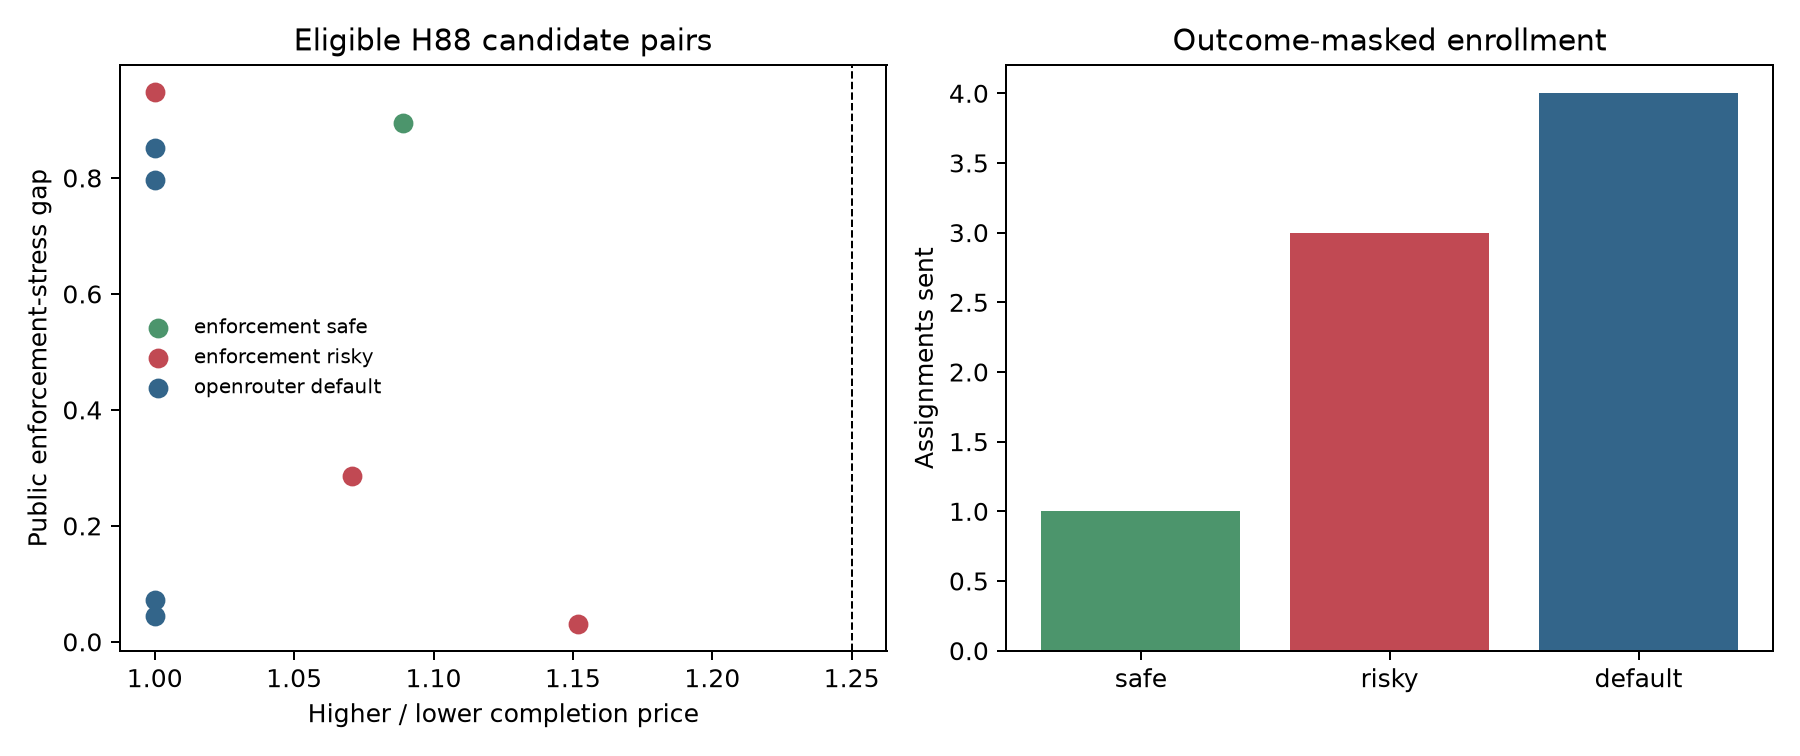
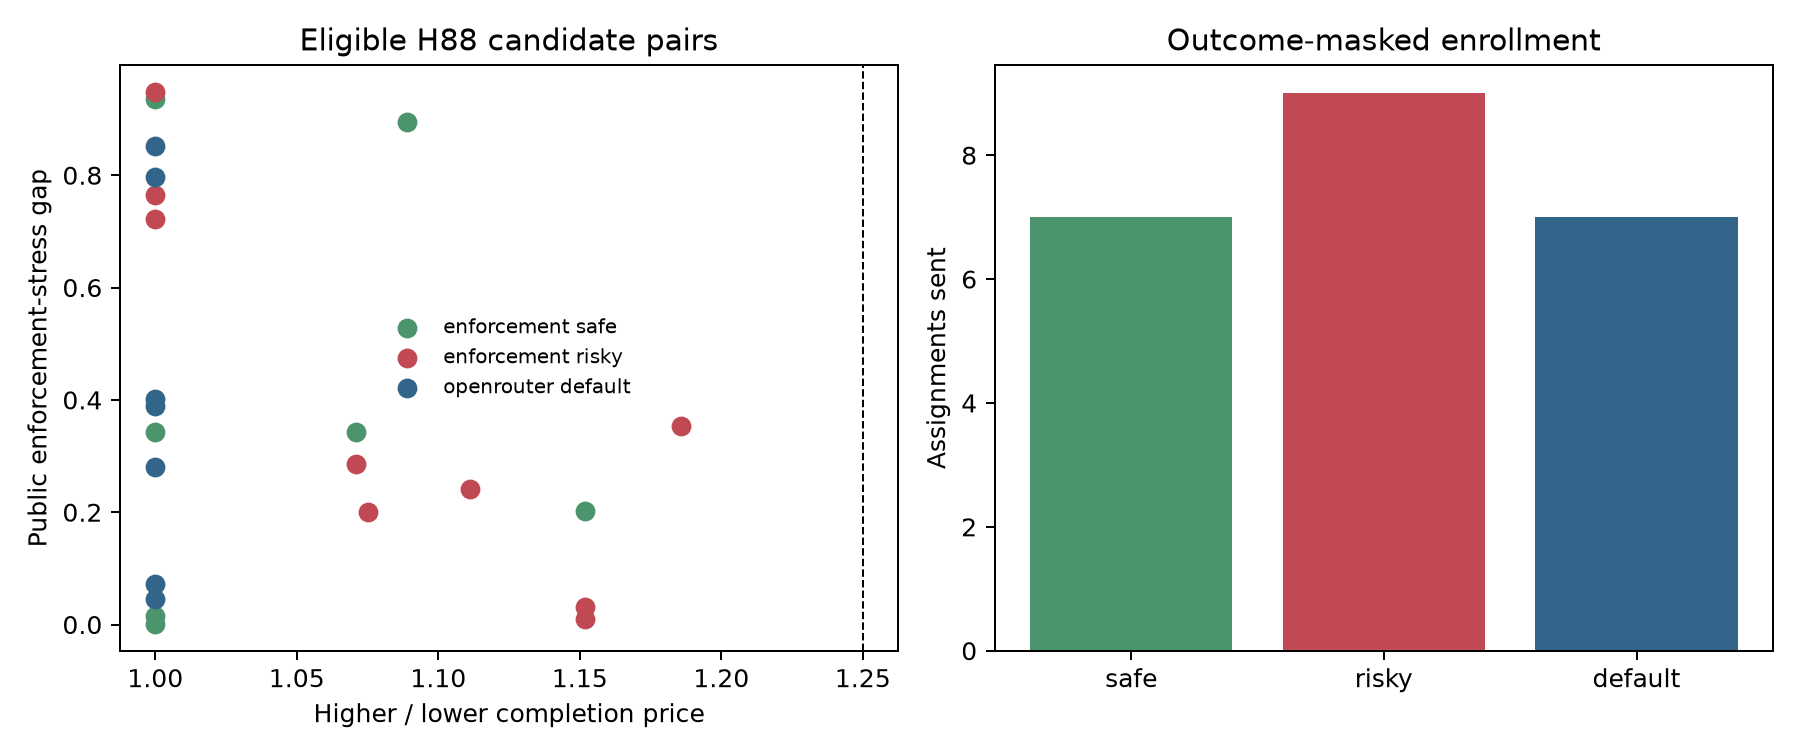
publish full Brown-MacKay and routing refresh

diff --git a/paper/capacity-certified-routing/main.tex b/paper/capacity-certified-routing/main.tex
@@ -73,9 +73,9 @@ channel in the discovery panel but is not a causal capacity estimate.
 An exact official-ID bridge recovers 281 legacy request-to-quote matches but
 zero capacity-complete public states, and a prospective capacity-policy run
 finds no eligible pair because the public capacity fields are null. A
-separately preregistered enforcement-stress trial does enroll: its first remote
-run randomizes eight of eight hot-model blocks across low-stress, high-stress,
-and default routing. Those arm outcomes remain masked.
+separately preregistered enforcement-stress trial does enroll: three remote
+runs yield 23 valid hot-model assignments across low-stress, high-stress, and
+default routing. Those arm outcomes remain masked.
 In a fixed-order pilot of 96
 matched four-policy blocks, default routing succeeded 17.7 percentage points
 more often than pinning the cheapest displayed quote (hour-cluster 95\% CI
@@ -716,7 +716,7 @@ Public performance & exact-match uptime and p90 fields are partial & coverage an
 Router enforcement & 503,321 endpoint snapshots; 231 complete isolated high onsets & descriptive capacity-event calibration only \\
 Pre-onset quote state & 1,227 same-model next-onset choice sets; 1,144 backward placebos & predictive mechanism rejection and diagnostics only \\
 Execution-state bridge & 281 exact legacy request/quote matches; zero capacity-complete states & public-capacity support failure only \\
-Randomized enforcement policy & first support run: 8 eligible hot-model blocks; outcomes masked & feasibility and assignment support only \\
+Randomized enforcement policy & 23 valid hot-model blocks; 14 providers; outcomes masked & feasibility and assignment support only \\
 Simulated share $\hat s_i$ & documented public price proxy & mechanical comparative static only \\
 Selection / retries & 716 legacy attempts plus 98 outcome-gated prospective rows & account/workload policy calibration only \\
 Capacity / cost / value & no controlled commitment panel & theorem primitives and protocol fields only \\
@@ -763,9 +763,10 @@ pairs, with no post- or placebo-window move.
 
 A cadence-only regression still finds that slow providers quote a 10.5\%
 premium over fast providers conditional on model. With cadence frozen before
-the holdout, adding reaction features reduces MAE from 0.1180 to 0.1098 and RMSE
-from 0.2135 to 0.2119, while the separate strategic hazard model improves log
-loss but reduces AUC. The reaction exposure and 30-day gates therefore fail.
+the holdout, adding reaction features reduces MAE from 0.1179 to 0.1123 and
+RMSE from 0.2152 to 0.2139, while the separate strategic hazard model improves
+log loss but reduces AUC. This small predictive gain does not repair the absent
+frozen reaction exposure, and the 30-day gate therefore fails.
 We use pricing technology as a descriptive market characteristic, not evidence
 of algorithmic reaction, collusion, or Brown--MacKay equilibrium effects.
 
@@ -923,13 +924,16 @@ valid assignments per arm, ten models, twenty candidate providers, at most
 20\% requested-provider dominance, at least 90\% pinned compliance, exact seed
 replay, and no cross-study request within five minutes.
 
-The first remote support run enrolls all eight evaluated models and sends eight
-requests: one low-stress, three high-stress, and four default assignments.
-Twelve distinct providers enter the candidate pairs. The median stress gap is
-0.541 while the median high/low price ratio is 1.000. The isolated artifact
-passes seed replay and pinned compliance, but provider dominance is 25\% and
-all duration, arm-count, model, and provider-diversity gates remain open. No
-arm success, rejection, latency, selected-provider, or cost result is released.
+Across three remote runs, the merged support panel contains 24 candidate
+model-blocks; 23 are eligible and each sends one request. The assignment split
+is seven low-stress, nine high-stress, and seven default. Fourteen distinct
+providers enter the candidate pairs. The median stress gap is 0.342 while the
+median high/low price ratio is 1.000. The authoritative merged audit has exact
+seed replay, 100\% pinned compliance, and no cross-study overlap, but requested-
+provider dominance is 31.25\%, above the frozen 20\% gate. The panel still has
+only eight models and zero complete days, so the duration, arm-count, model,
+provider-diversity, and concentration gates remain open. No arm success,
+rejection, latency, selected-provider, or cost result is released.
 
 \begin{figure}[t]
 \centering

diff --git a/docs/manuscript-review-round-11-2026-07-15.md b/docs/manuscript-review-round-11-2026-07-15.md
@@ -1,0 +1,87 @@
+# Independent-style review, round 11
+
+Manuscript: *Displayed Is Not Deliverable: Capacity Certificates and Quote
+Firmness in Inference Routing*
+
+Target: ACM EC / WINE / a top operations or market-design venue
+
+Recommendation: **6.5/10, borderline weak reject. The empirical package is now
+reproducible and safely outcome-isolated, but the central randomized and
+capacity-commitment effects remain unreleased or unimplemented.**
+
+## Evidence added since round 10
+
+The authors completed a fresh remote run of the entire experiment registry at
+commit `dea9d37` and published it through GitHub Actions run `29435729411`.
+The source audit is green. The public panel now contains 2,968,449 endpoint
+snapshots and 1,805 five-minute runs over nine calendar days. The descriptive
+owned-policy panel excludes 245 rows from four outcome-gated studies before
+reporting its 716 legacy attempts.
+
+The Brown--MacKay screen remains internally mixed. BM3 estimates a 10.48%
+slow-over-fast cadence premium within model-day (transformed 95% CI
+4.33%--16.99%). BM4's frozen temporal feature set
+reduces holdout MAE from 0.1179 to 0.1123 and RMSE from 0.2152 to 0.2139 across
+53 reactions. BM5 improves log loss from 0.0866 to 0.0806 and Brier loss from
+0.0186 to 0.0156, but lowers AUC from 0.616 to 0.592. Most importantly, BM2's
+frozen target still has zero fast-responder/slow-initiator risk pairs. The
+paper correctly refuses to select the Brown--MacKay mechanism.
+
+The H88 enrollment audit is now cumulative rather than first-run only. Three
+remote captures yield 24 candidate blocks, 23 valid randomized assignments,
+seven low-stress, nine high-stress, and seven default assignments across eight
+models and fourteen candidate providers. Seed replay and pinned compliance are
+100%, and the merged audit finds no cross-study overlap. Requested-provider
+dominance is 31.25%, above the frozen 20% gate, and there are zero complete
+days. No success, rejection, latency, selected-provider, or cost outcome is
+released.
+
+## Strengths
+
+1. The paper distinguishes a statistically resolved cadence-price association
+   from the unobserved fast-on-slow reaction implication.
+2. H84 supplies a sharp negative mechanism test rather than merely an analogy:
+   next-binding endpoints are not stale and cheap.
+3. H86b resolves identifier support while proving that the public capacity
+   fields, not only the join key, are absent.
+4. H88 is preregistered, enrolls at close prices with meaningful public stress
+   separation, and publishes an auditable outcome-free support panel.
+5. The authors found a cross-analysis blinding hole before this full run,
+   canceled the unsafe run before publication, centralized all four study IDs,
+   and added regression tests across pandas and SQL-only consumers. The final
+   remote publication therefore excludes every gated outcome from legacy
+   aggregates.
+
+## Remaining reasons for rejection
+
+1. **There is still no released prospective treatment effect.** Twenty-three
+   assignments are feasibility evidence, not a policy contrast, confidence
+   interval, or randomization test.
+2. **The Brown--MacKay reaction estimand is unsupported.** Predictive gains do
+   not substitute for zero frozen fast-after-slow exposure, and the nine-day
+   hazard panel has only 36 holdout events.
+3. **Public enforcement stress is not certified capacity.** Even a future H88
+   success effect would validate an account-level admission heuristic, not
+   physical capacity, truthful reporting, provider cost, or market welfare.
+4. **The proposed institution is not intervened on.** No reserved-capacity,
+   collateral, audit, or liability arm has commitment, delivered-count,
+   shortfall, fallback, and spend outcomes.
+5. **The strongest public event study is descriptive.** H82 has a nonzero
+   pretrend, while H84's backward placebo is also nonzero. These findings
+   motivate mechanisms but do not identify them.
+
+## Acceptance threshold
+
+The next decision-relevant revision should release the deterministic first
+qualifying H88 prefix regardless of sign, release at least one independent
+prospective routing study at its frozen gate, and execute a direct capacity or
+liability intervention. Additional retrospective model variants on the same
+nine-day public panel would not change the decision.
+
+## Decision
+
+**Borderline weak reject.** The reproducibility and claim boundaries are now
+strong, and the negative stale-quote result plus the failed public-capacity
+bridge are publishable measurement lessons. The paper still lacks the released
+randomized effect and implemented commitment mechanism needed for its central
+market-design prescription.

diff --git a/docs/brown-mackay-welfare-results-2026-07-15.md b/docs/brown-mackay-welfare-results-2026-07-15.md
@@ -17,12 +17,13 @@ welfare loss.
 
 ## Authoritative data freeze
 
-- 2,062,359 endpoint-snapshot rows, 1,684 runs, 9 days.
-- 3,191 all-field price-change rows; 278 positive completion-price changes
+- 2,968,449 endpoint-snapshot rows, 1,805 runs, 9 days.
+- 3,212 all-field price-change rows; 278 positive completion-price changes
   used by Brown-MacKay, spanning 7.53 days.
-- 377,382 public routing-simulation rows over 6 days.
-- 744 raw owned-route records; 616 unique source/event attempts; 534 with an
-  observed selected provider.
+- 562,550 public routing-simulation rows over 6 days.
+- 2,659 raw owned-route rows over 65 runs. After deduplication and exclusion of
+  245 outcome-gated rows, the descriptive legacy policy panel has 716 attempts,
+  617 with an observed selected provider.
 - No registered H50 manifest/assignment, capacity commitment/outcome, router
   flow aggregate, decision-event experiment, or H54 audit-assignment table.
 
@@ -33,10 +34,10 @@ welfare loss.
 | BM1 pricing technology | 69 quoting providers; 19 repriced; 50 had no observed update; 10 intraday, 7 daily, 2 weekly | 7.53/30 days; inactive means left-censored, not proven slow |
 | BM2 frozen-cadence reactions | 21 evaluation waves and 124 risk pairs after training on the first 70% of events and removing incomplete 24-hour windows; fast-after-slow n=0 | target contrast is not estimable; power-gated |
 | BM2 outcome-adaptive sensitivity | 116 waves, 1,340 risk pairs; fast-after-slow n=3, with zero post and placebo moves | retained to disclose the original full-panel classification, not promoted |
-| BM3 cadence premium | cadence-only beta -0.0998, clustered SE 0.0292, CI [-0.1570, -0.0425], 5,575 observations/131 models; slow-over-fast premium 10.5% | statistically resolved association, not causal |
+| BM3 cadence premium | cadence-only beta -0.0996, clustered SE 0.0292, CI [-0.1569, -0.0424], 5,576 observations/131 models; slow-over-fast premium 10.5% | statistically resolved association, not causal |
 | BM3 quality-complete | beta -0.2888, SE 0.1336, CI [-0.5507, -0.0268], 468 observations/26 models; premium 33.5% | selected-subsample sensitivity; not the headline causal estimate |
-| BM4 frozen-cadence reaction rule | 206 linked reactions; MAE 0.1180 to 0.1098 and RMSE 0.2135 to 0.2119 after cadence/reaction features | small predictive improvement; not causal and insufficient without BM2 exposure |
-| BM5 hazard horse race | state-only log loss 0.0865/AUC 0.617; strategic 0.0806/AUC 0.595 | log loss improves, discrimination worsens; joint BM gate fails |
+| BM4 frozen-cadence reaction rule | 205 linked reactions; on 53 holdout reactions MAE falls 0.1179 to 0.1123 and RMSE falls 0.2152 to 0.2139 after cadence/reaction features | small predictive improvement; not causal and insufficient without BM2 exposure |
+| BM5 hazard horse race | 2,467 holdout pair-days and 36 events; state-only log loss 0.0866/AUC 0.616; strategic 0.0806/AUC 0.592 | log loss and Brier score improve, discrimination worsens; joint BM gate fails |
 
 The 10.5% cadence-only premium is close to the Brown-MacKay daily-versus-fast
 retail benchmark, but numerical similarity is not identification. The live
@@ -76,10 +77,10 @@ Owned probes are useful but not randomized:
 
 | Policy | Attempts | Success | Mean cost | Mean latency |
 |---|---:|---:|---:|---:|
-| OpenRouter default | 328 | 98.8% | $0.0000305 | 1,178 ms |
-| Pinned cheapest | 96 | 80.2% | $0.0000106 | 1,347 ms |
-| Pinned random | 96 | 76.0% | $0.0000188 | 1,284 ms |
-| Pinned second | 96 | 66.7% | $0.0000083 | 2,289 ms |
+| OpenRouter default | 368 | 98.4% | $0.0000308 | 1,200 ms |
+| Pinned cheapest | 116 | 83.6% | $0.0000103 | 1,374 ms |
+| Pinned random | 116 | 74.1% | $0.0000184 | 1,440 ms |
+| Pinned second | 116 | 65.5% | $0.0000080 | 2,182 ms |
 
 These contrasts strongly motivate H50, but workload, model, provider, and time
 composition can explain them. No causal policy or welfare claim is permitted
@@ -110,9 +111,9 @@ alternatives.
 
 - Brown-MacKay: 30 panel days (7.53 now), 80 evaluation waves (21 now), and at
   least 30 frozen-cadence fast-after-slow risk pairs (0 now).
-- Public quote pulse: 193 hours clears the 168-hour span gate; 48/80
+- Public quote pulse: 205.7 hours clears the 168-hour span gate; 48/80
   independent cut episodes remain.
-- Realized routing: 534/2,000 unique selected-provider attempts and 0/1,000
+- Realized routing: 617/2,000 unique selected-provider attempts and 0/1,000
   quote-linked attempts.
 - Causal routing: zero H50 manifests, assignments, or randomized effects.
 - Capacity: zero commitments, cost curves, or epoch outcomes.

diff --git a/docs/h86-h88-capacity-execution-results-2026-07-15.md b/docs/h86-h88-capacity-execution-results-2026-07-15.md
@@ -95,6 +95,27 @@ It requires:
 The current sample therefore supports only feasibility and data-quality claims.
 It contains no releasable causal effect or confidence interval.
 
+## Cumulative outcome-free update
+
+Through `2026-07-15T16:51:34Z`, three successful remote H88 runs contain 24
+candidate model-blocks. Twenty-three are eligible and receive one request; the
+remaining Claude Opus block has fewer than two enforcement-complete providers
+and sends no request. The cumulative assignment counts are seven
+`enforcement_safe`, nine `enforcement_risky`, and seven `openrouter_default`.
+
+The authoritative merged analyzer reports 23 valid assignments, exact seed
+replay, 100% pinned treatment compliance, and zero cross-study overlap blocks.
+The candidate set still has only eight models and fourteen providers.
+Requested-provider dominance is 31.25%, so the concentration gate is currently
+failing; it is not relaxed. The cumulative median stress gap is 0.342, the
+median price ratio is 1.000, and pinned public quoted-cost exposure is
+$0.001110531. Outcomes remain masked.
+
+The full remote reanalysis and publication run is GitHub Actions run
+`29435729411` at commit `dea9d37`. It completed every required analysis,
+published the refreshed private Hugging Face dataset and memo Space, and
+confirmed `outcomes_released=false` for both H87 and H88.
+
 ## Remote operation and reproducibility
 
 The hourly workflow is `.github/workflows/enforcement-policy-probes.yml`; its